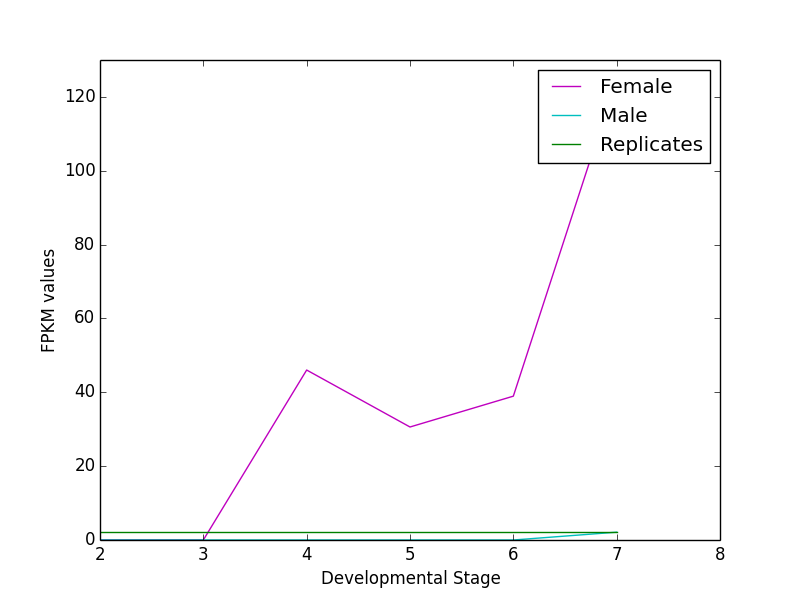
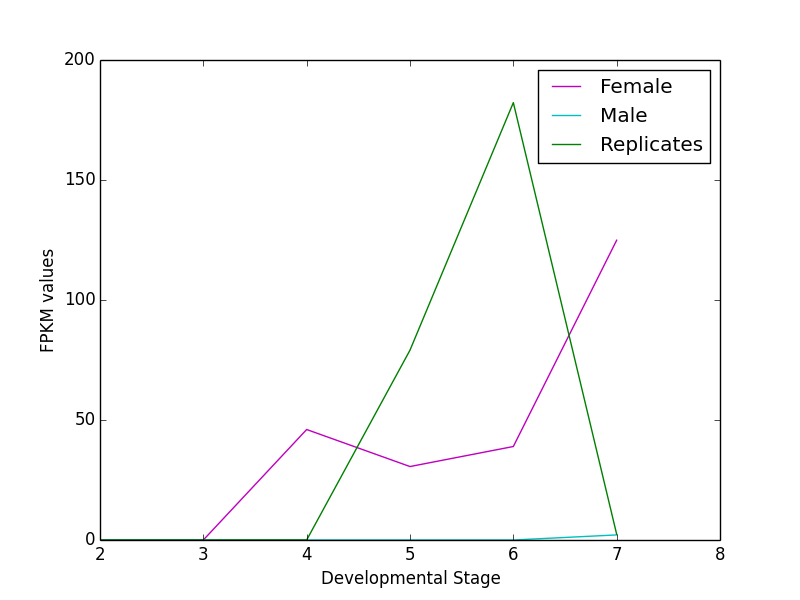
Day 3:Lunch exercise 1

diff --git a/day3/day3-lunch/answer1.py b/day3/day3-lunch/answer1.py
@@ -21,19 +21,16 @@ for sample in metadata [metadata["sex"] == "male"]["sample"]:
 replicates = pd.read_csv("/Users/cmdb/qbb2015/rawdata/replicates.csv")
 
 for columns in replicates["sample"]:
-    df_r = pd.read_table ("~/qbb2015/stringtie/"+sample+"/t_data.ctab")
+    df_r = pd.read_table ("~/qbb2015/stringtie/"+columns+"/t_data.ctab")
     roi_r = df_r["t_name"].str.contains("FBtr0331261")
     Sxl_r.append(df_r[roi_r]["FPKM"].values)
-    print "0"
-
-
-####   
+      
 plt. figure
 plt.plot(Sxl_f, label ="Female", color = "m")
 plt.plot(Sxl_m, label= "Male", color = "c")
 plt.plot(Sxl_r, label= "Replicates", color = "g")
 plt.legend()
-plt.axis([2,8,0,130])
+plt.axis([2,8,0,200])
 plt.xlabel("Developmental Stage")
 plt.ylabel("FPKM values")
 plt.savefig("time_course_fm.png")
